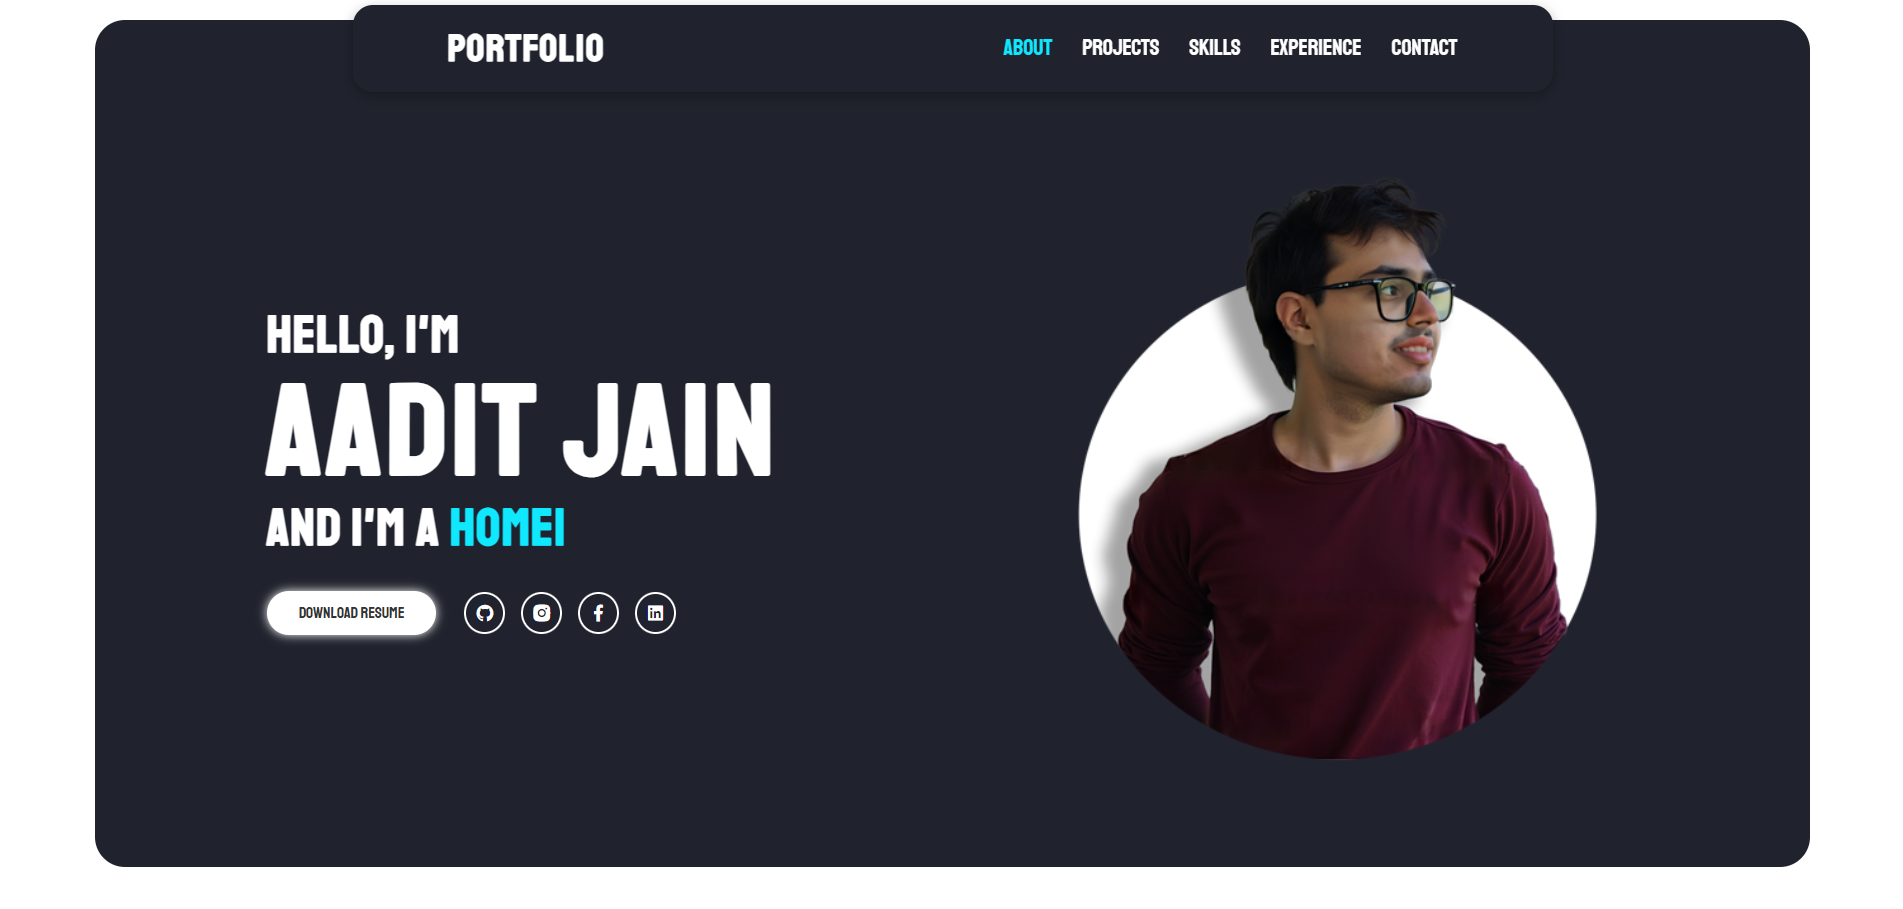
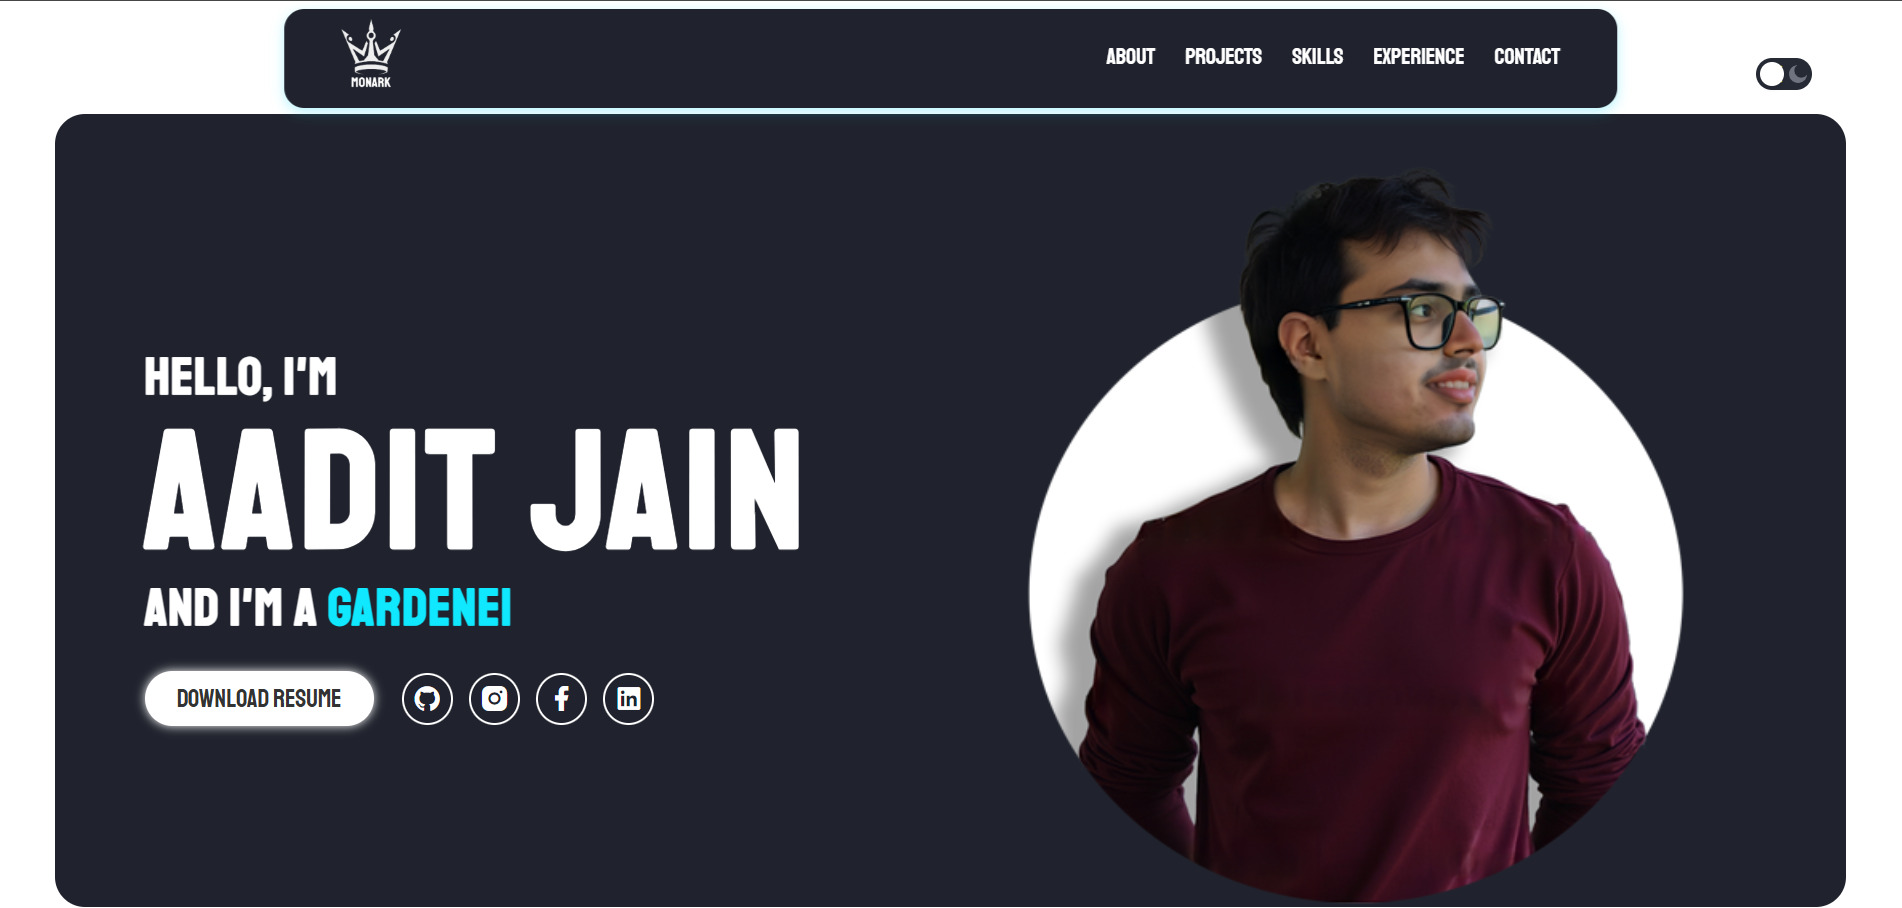
minor css changes

Changed region(s): [[0.031, 0.0, 0.9926, 1.0], [0.7135, 0.185, 0.7445, 0.2159]]

diff --git a/src/components/About.css b/src/components/About.css
@@ -1,7 +1,7 @@
 .top-container {
     background-color: #20232D;
     border-radius: 30px;
-    height: 93vh;
+    height: 87vh;
     position: relative;
     transition: opacity 0.2s, transform 0.2s;
     margin-bottom: 10vh;
@@ -13,7 +13,7 @@
     justify-content: center;
     align-items: center;
     height: 100%;
-    padding: 50px 10% 0;
+    padding: 50px 5% 0;
     gap: 10px;
     color: #ffffff;
   }
@@ -28,6 +28,7 @@
     position: relative;
     border-radius: 30px;
     transition: transform 0.3s ease;
+    font-size: 130%;
   }
   
   .about-content h1{
@@ -60,6 +61,7 @@
   .about-content .download-social{
     display: flex;
     align-items: center;
+    font-size: 100%;
   }
   
   .btn-download-resume{
@@ -90,7 +92,7 @@
     padding: 8px;
     border: 2px solid #ffffff;
     border-radius: 50%;
-    font-size: 20px;
+    font-size: 100%;
     color: #ffffff;
     text-decoration: none;
     margin: 0 8px;
@@ -117,8 +119,8 @@
   }
   
   .profile-photo {
-    width: 600px;
-    height: 600px;
+    width: 90%;
+    height: 90%;
     object-fit: cover;
     border-radius: 50%;
     opacity: 0;

diff --git a/src/App.css b/src/App.css
@@ -17,14 +17,14 @@ body {
 
 .header {
   position: fixed;
-  top: 5px; 
+  top: 0.5em; 
   left: 50%;
   transform: translateX(-50%);
   background-color: #20232D;
   border-radius: 20px;
   padding: 10px 3%;
   width: 90%;
-  max-width: 1200px;
+  max-width: 70%;
   display: flex;
   justify-content: space-between;
   align-items: center;

diff --git a/src/components/About.jsx b/src/components/About.jsx
@@ -1,6 +1,6 @@
 import React, { useEffect, useRef } from "react";
 import "./About.css";
-import image from "../images/myself.png"; // Adjust path if needed
+import image from "../images/myself.png";
 import Typed from "typed.js";
 
 const About = ({ scrollY }) => {

diff --git a/src/components/Projects.css b/src/components/Projects.css
@@ -101,9 +101,9 @@
 .project-image-area img {
   width: 100%;
   height: 100%;
-  object-fit: cover;
+  object-fit: fill;
   display: block;
-  border-radius: 20px;
+  border-radius: 10px;
   /* optional: to match card corners */
 }
 

diff --git a/src/components/DayNightToggle.css b/src/components/DayNightToggle.css
@@ -4,8 +4,8 @@
   width: 56px;
   height: 32px;
   cursor: pointer;
-  margin-bottom: 20px;
-  right: -1700px;
+  margin-bottom: 1.5em;
+  right: -95%;
 }
 
 .toggle-switch input {
